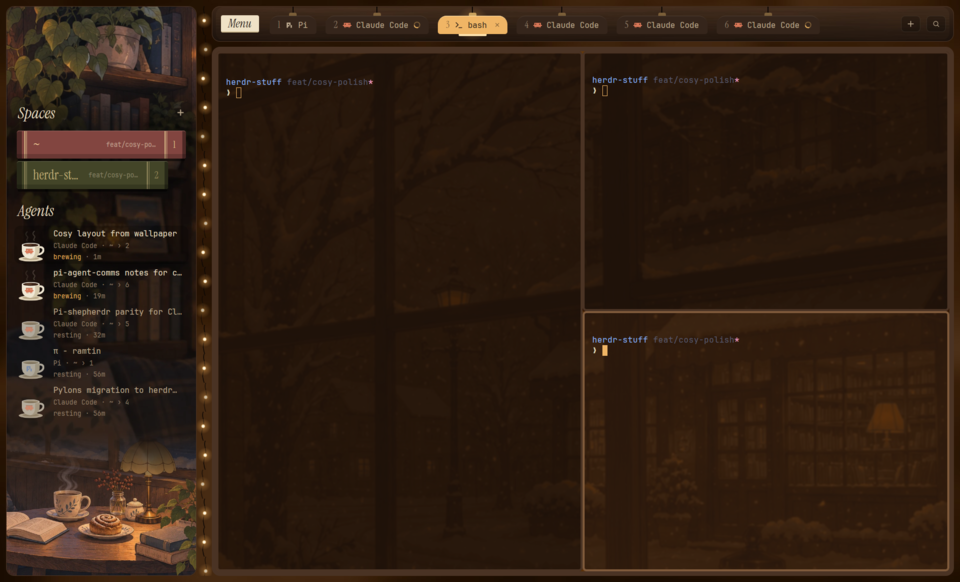
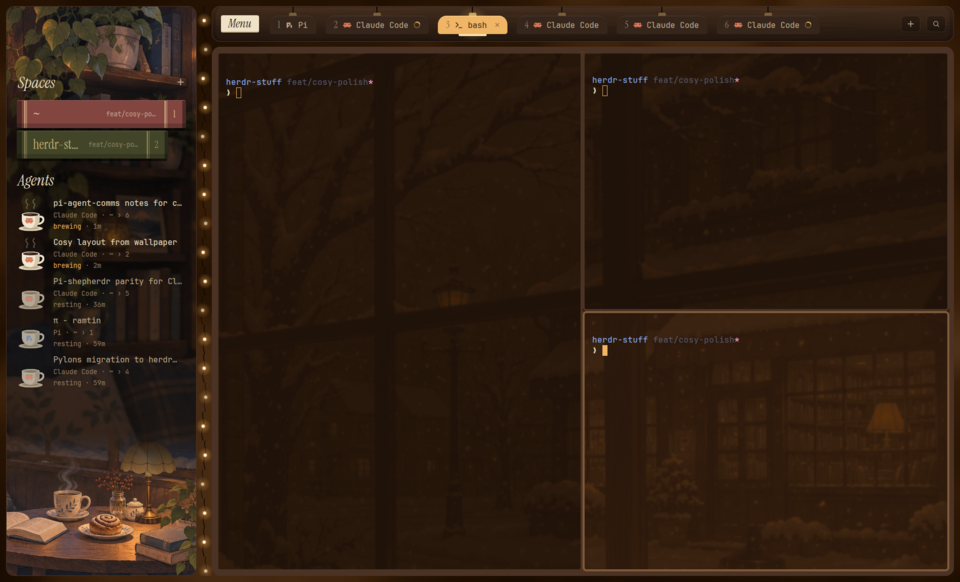
feat(cosy): move Spaces up a book's height so the stack holds one more

Changed region(s): [[0.0, 0.1237, 0.2188, 0.7113]]

diff --git a/mods/cosy/shelf.js b/mods/cosy/shelf.js
@@ -62,7 +62,9 @@ export default class Shelf {
     const L = look();
     const W = this.width;
     const full = W - 32;
-    const top = W * IVY - 62;
+    // The heading sits a book's height up into the plant's shelf, so the
+    // stack holds one more book before the cups give up room.
+    const top = W * IVY - 62 - (BOOK + 4);
     const all = spaces();
     // A long stack scrolls in under half the shelf, so the cups keep their room.
     const stack = Math.min(all.length * (BOOK + 4) + 8, Math.max(2 * (BOOK + 4) + 8, (this.height - top - 40 - W * TABLE) * 0.45));
